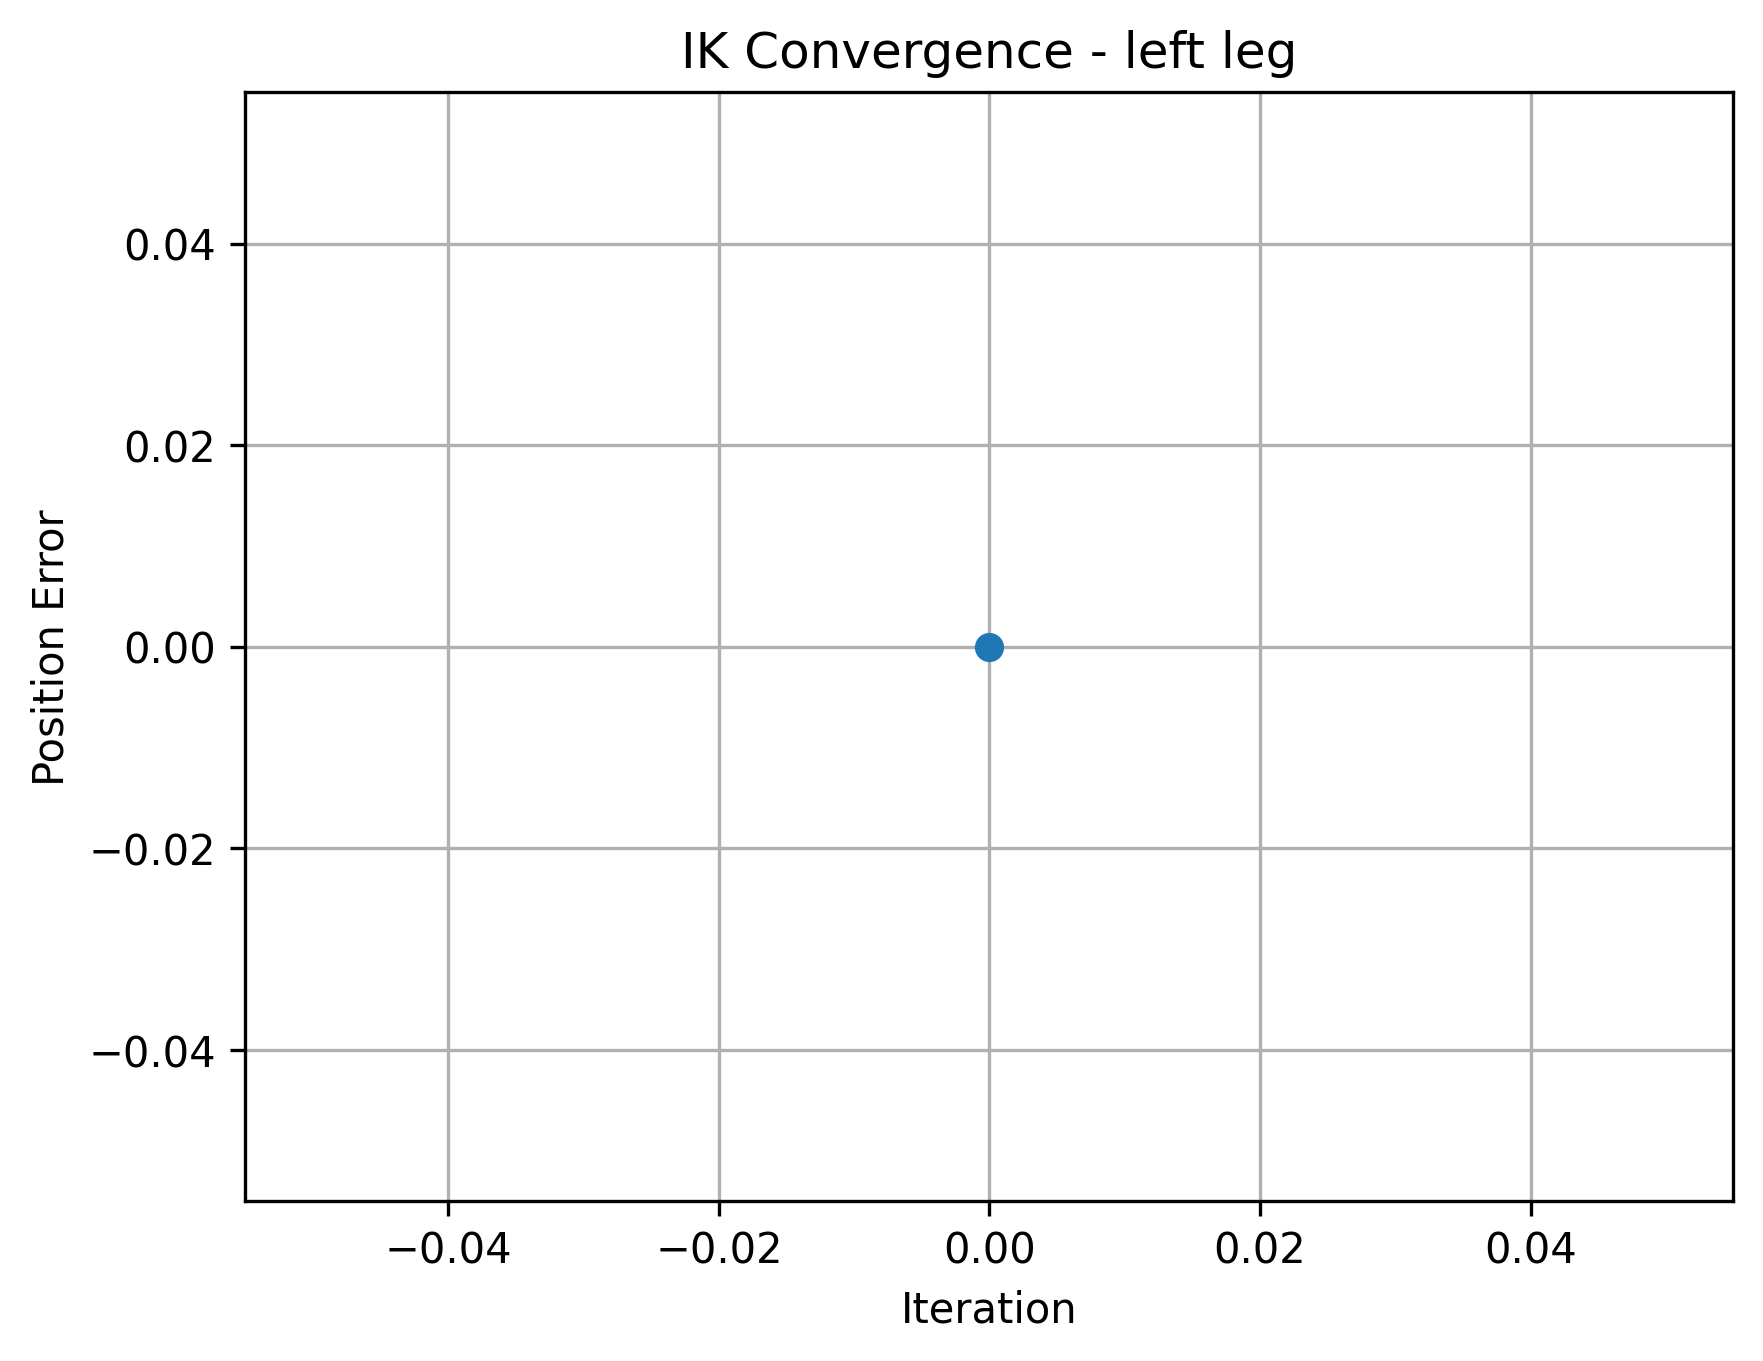
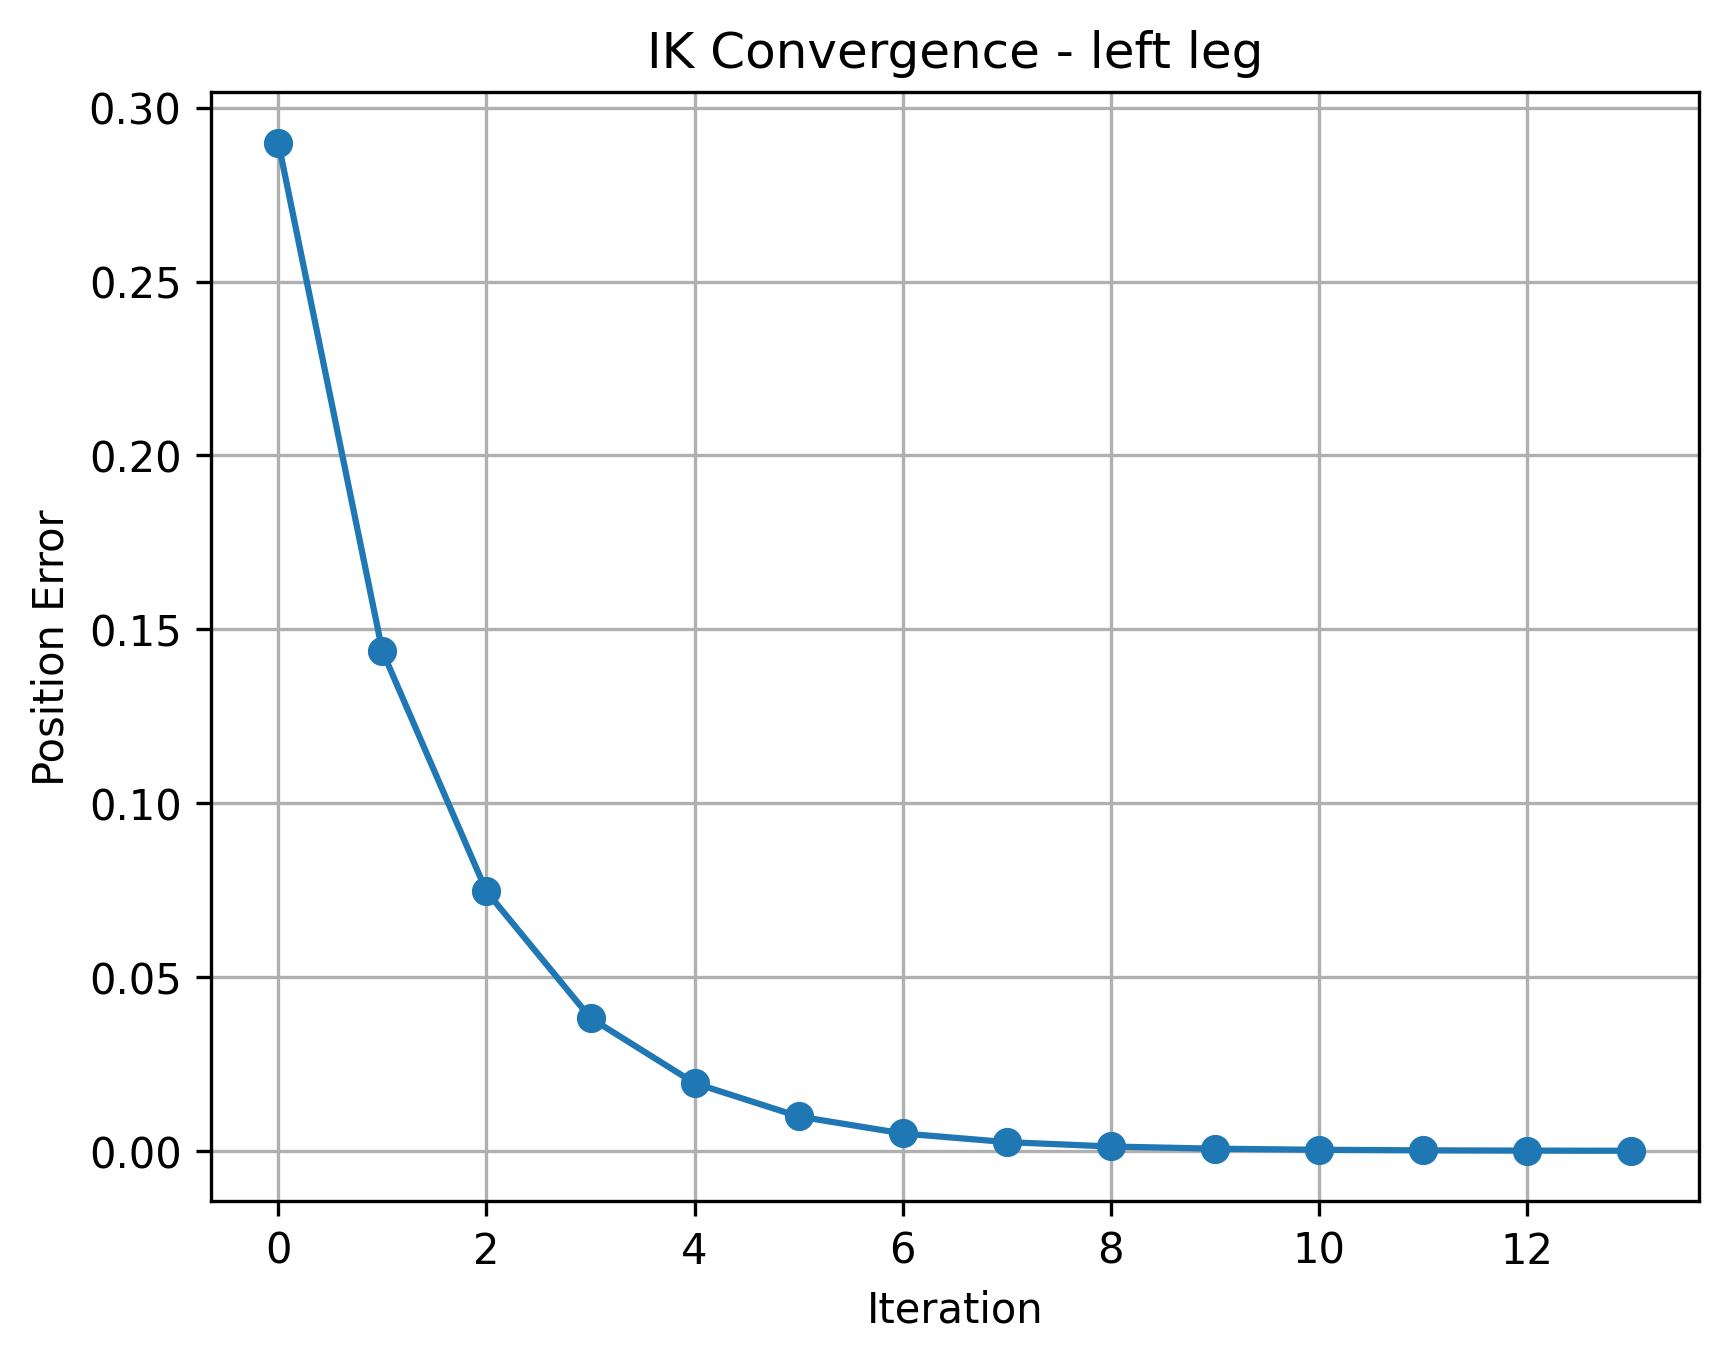
.

diff --git a/kinematics/inverse_kinematics.py b/kinematics/inverse_kinematics.py
@@ -164,10 +164,10 @@ if __name__ == "__main__":
 
         print(f"\n--- {side.upper()} LEG ---")
 
-        q_ref = np.array([0.05, -0.35, 0.0, 0.70, -0.35, -0.05])
+        q_ref = np.array([0.1, -0.8, 0.0, 0.3, -0.35, -0.85])
 
         T = fk.compute(q_ref)
         p = T[:3, 3]
         R = T[:3, :3]
 
-        q_sol, ok = ik.solve(p, R, q_init=q_ref, verbose=True)
+        q_sol, ok = ik.solve(p, R, q_init=q_ref+ np.random.uniform(-0.5, 0.5, size=6), verbose=True)
